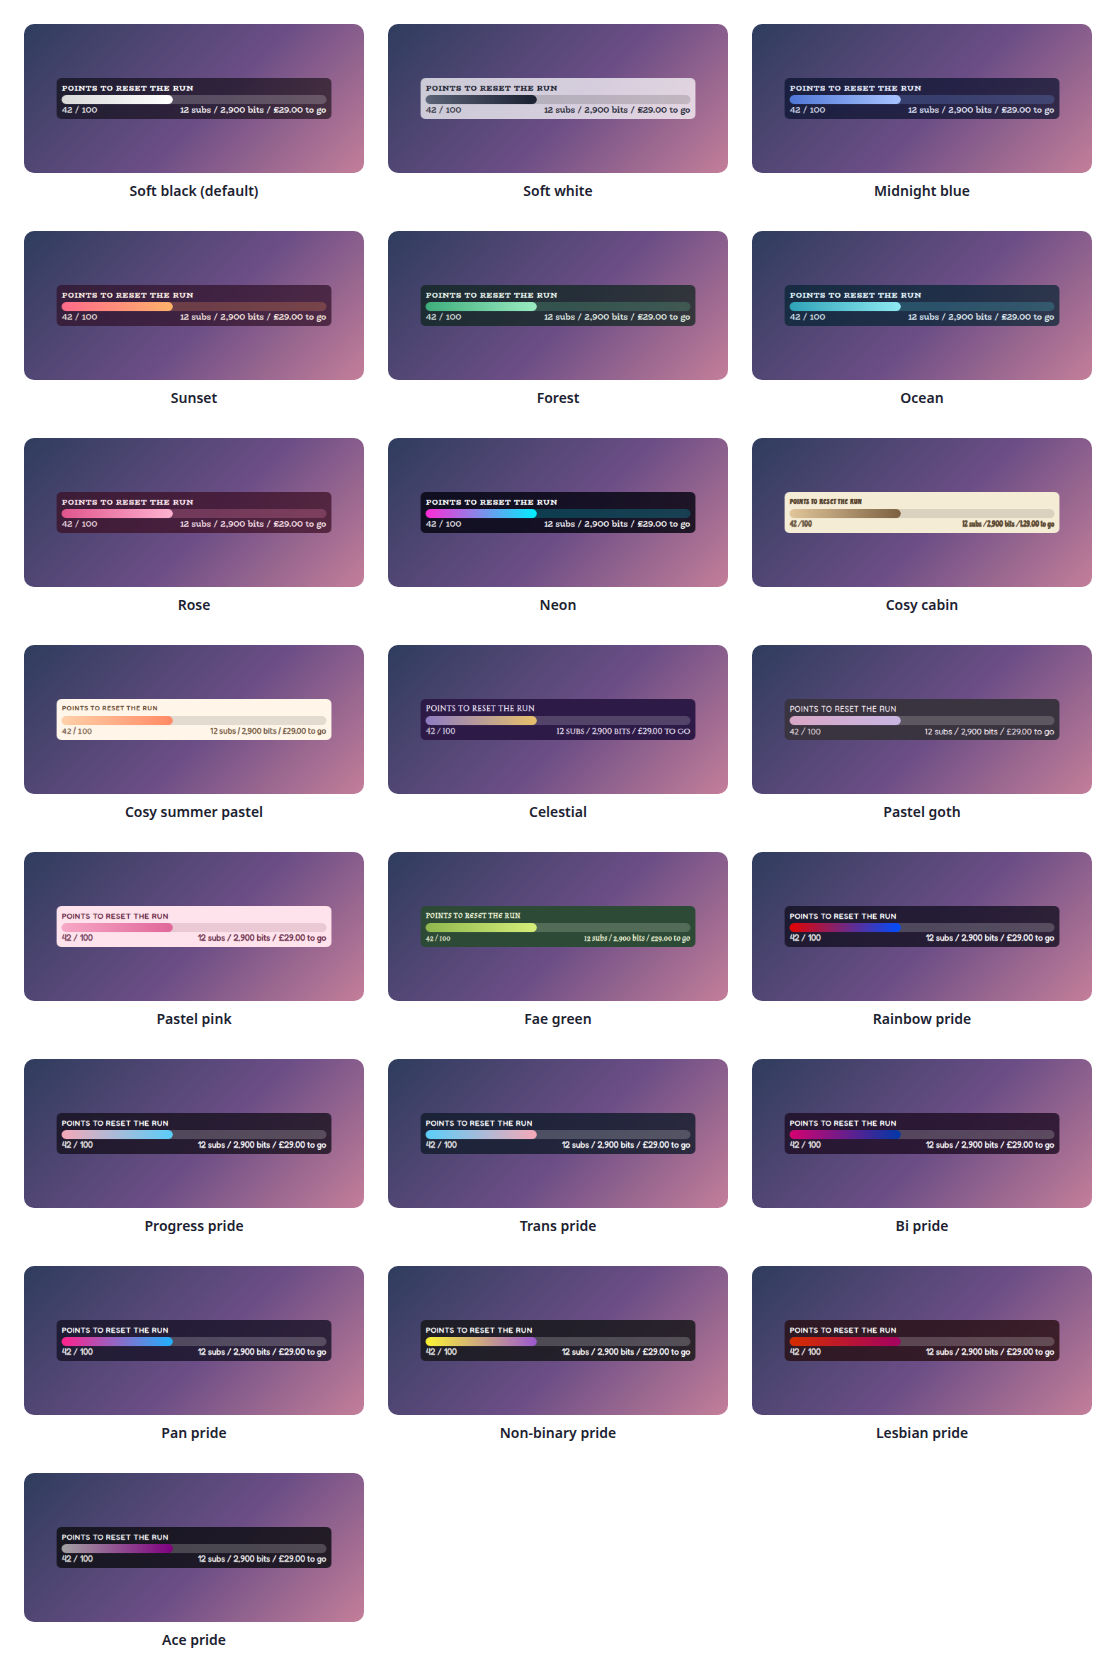
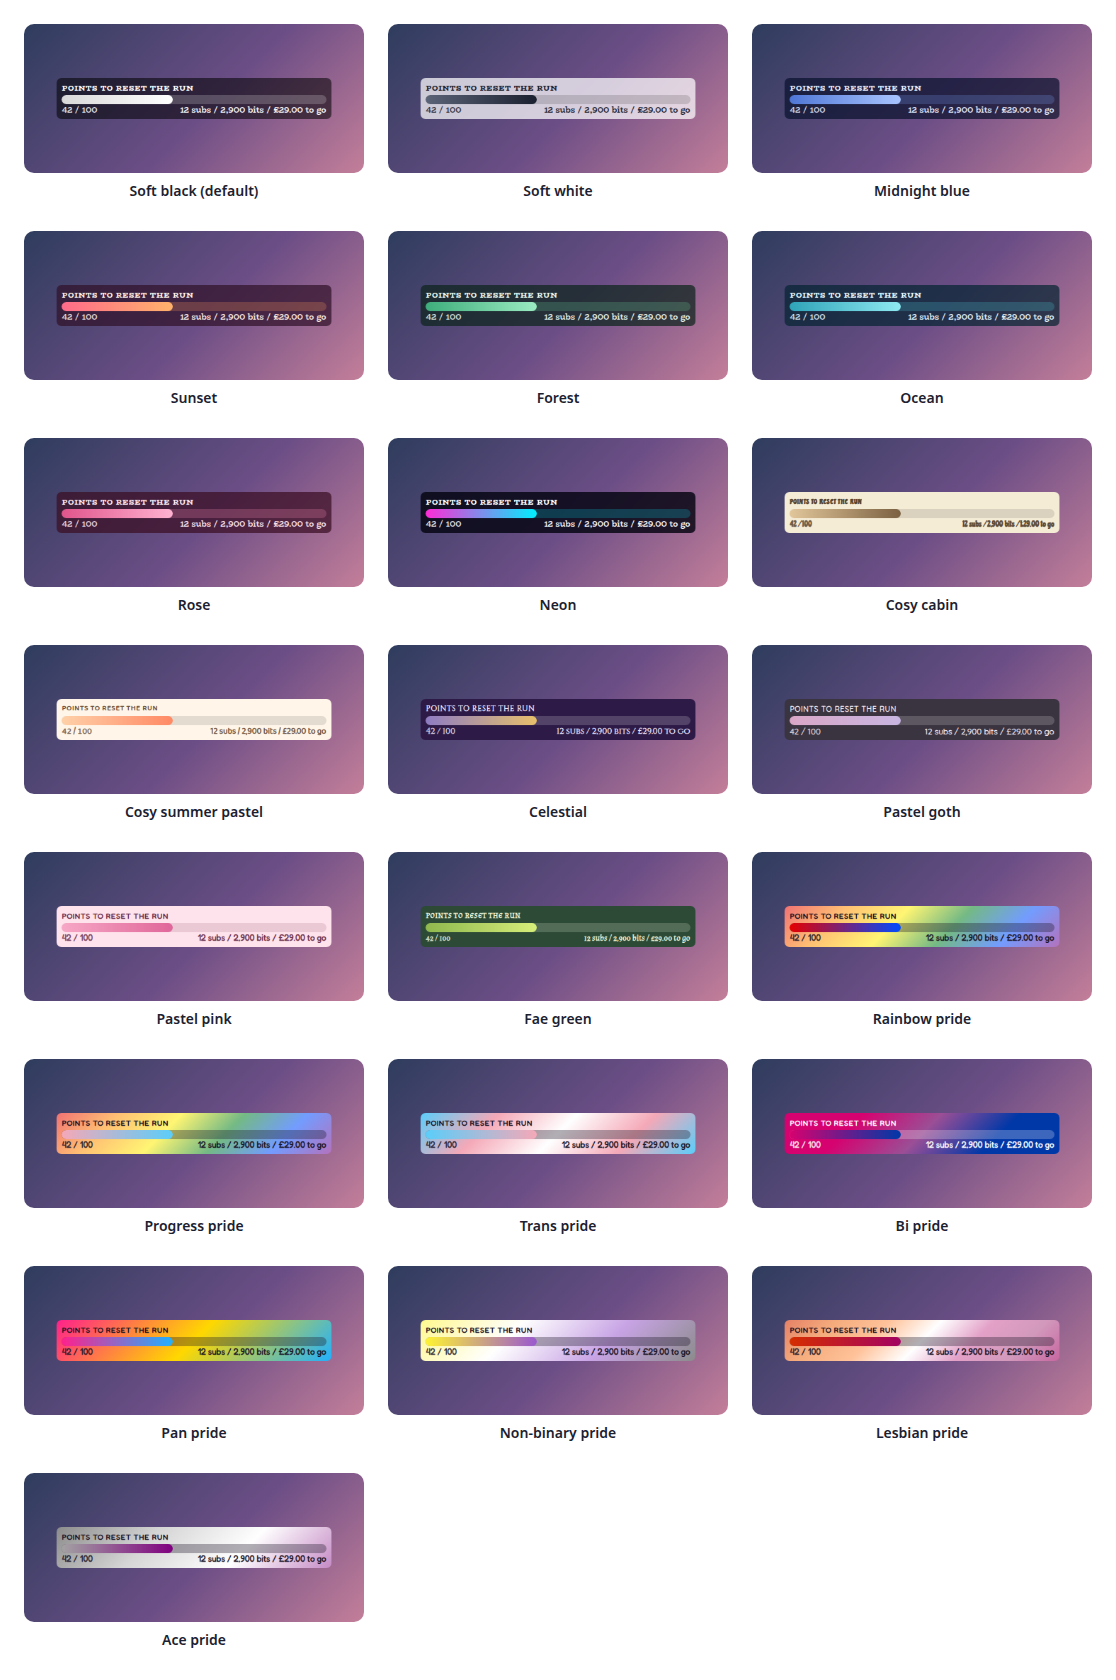
Give the pride presets flag-coloured panels
The pride presets used to be a dark card with only a thin striped bar, so the flag barely showed and the card did not match the palette. Now the card or panel itself wears the flag, as a soft gradient of its stripes, with the text kept readable.

How strong a wash goes over it is worked out, not guessed: the weakest scrim that keeps the text at a contrast of 4.6 or better against every stripe, in white or dark text as the flag needs. Trans, bi and pan need none, and a flag with a black stripe, such as ace and non-binary, gets a lighter wash. A plain colour stays as the fallback, so nothing that only understands a colour is affected, and every other preset, and Custom, is unchanged. The README gallery shows all twenty-two, and the tests check it.

diff --git a/widget/widget.js b/widget/widget.js
@@ -103,44 +103,52 @@
       parts: {"title": "#EEF5DA", "timer": "#EEF5DA", "readout": "#EEF5DA", "note": "#EEF5DA", "border": "#C9E265", "track": "rgba(238, 245, 218, 0.2)", "lock": "#C9E265", "lockHole": "#2C4A36", "float": "#EEF5DA", "floatBg": "#2C4A36", "alert": "#FFFFFF", "alertFill": "#FFFFFF", "alertTrack": "rgba(0, 0, 0, 0.22)"}
     },
     pride: {
-      bg: "rgba(20, 16, 34, 0.8)", text: "#FFFFFF", accent: "#FFEE00", font: "Fredoka",
-      fillFrom: "#E50000", fillTo: "#004CFF", alarm: "#FF5C5C",
-      parts: {"title": "#FFFFFF", "timer": "#FFFFFF", "readout": "#FFFFFF", "note": "#FFFFFF", "border": "#FFEE00", "track": "rgba(255, 255, 255, 0.2)", "lock": "#FFEE00", "lockHole": "rgba(20, 16, 34, 0.92)", "float": "#FFFFFF", "floatBg": "rgba(20, 16, 34, 0.92)", "alert": "#FFFFFF", "alertFill": "#FFFFFF", "alertTrack": "rgba(0, 0, 0, 0.22)"}
+      bg: "rgba(194, 168, 154, 0.9)", text: "#1A1426", accent: "#1A1426", font: "Fredoka",
+      bgimg: "linear-gradient(rgba(255, 255, 255, 0.45), rgba(255, 255, 255, 0.45)), linear-gradient(135deg, #E50000, #FF8D00, #FFEE00, #028121, #004CFF, #770088)",
+      fillFrom: "#E50000", fillTo: "#004CFF", alarm: "#B3123A",
+      parts: {"title": "#1A1426", "timer": "#1A1426", "readout": "#1A1426", "note": "#1A1426", "border": "#1A1426", "track": "rgba(26, 20, 38, 0.34)", "lock": "#1A1426", "lockHole": "rgba(194, 168, 154, 0.96)", "float": "#1A1426", "floatBg": "rgba(194, 168, 154, 0.96)", "alert": "#FFFFFF", "alertFill": "#FFFFFF", "alertTrack": "rgba(0, 0, 0, 0.22)"}
     },
     progress: {
-      bg: "rgba(22, 16, 30, 0.8)", text: "#FFFFFF", accent: "#5BCEFA", font: "Fredoka",
-      fillFrom: "#F5A9B8", fillTo: "#5BCEFA", alarm: "#FF5C5C",
-      parts: {"title": "#FFFFFF", "timer": "#FFFFFF", "readout": "#FFFFFF", "note": "#FFFFFF", "border": "#5BCEFA", "track": "rgba(255, 255, 255, 0.2)", "lock": "#5BCEFA", "lockHole": "rgba(22, 16, 30, 0.92)", "float": "#FFFFFF", "floatBg": "rgba(22, 16, 30, 0.92)", "alert": "#FFFFFF", "alertFill": "#FFFFFF", "alertTrack": "rgba(0, 0, 0, 0.22)"}
+      bg: "rgba(194, 168, 154, 0.9)", text: "#1A1426", accent: "#1A1426", font: "Fredoka",
+      bgimg: "linear-gradient(rgba(255, 255, 255, 0.45), rgba(255, 255, 255, 0.45)), linear-gradient(135deg, #E50000, #FF8D00, #FFEE00, #028121, #004CFF, #770088)",
+      fillFrom: "#F5A9B8", fillTo: "#5BCEFA", alarm: "#B3123A",
+      parts: {"title": "#1A1426", "timer": "#1A1426", "readout": "#1A1426", "note": "#1A1426", "border": "#1A1426", "track": "rgba(26, 20, 38, 0.34)", "lock": "#1A1426", "lockHole": "rgba(194, 168, 154, 0.96)", "float": "#1A1426", "floatBg": "rgba(194, 168, 154, 0.96)", "alert": "#FFFFFF", "alertFill": "#FFFFFF", "alertTrack": "rgba(0, 0, 0, 0.22)"}
     },
     trans: {
-      bg: "rgba(18, 28, 44, 0.82)", text: "#FFFFFF", accent: "#F5A9B8", font: "Fredoka",
-      fillFrom: "#5BCEFA", fillTo: "#F5A9B8", alarm: "#FF5C5C",
-      parts: {"title": "#FFFFFF", "timer": "#FFFFFF", "readout": "#FFFFFF", "note": "#FFFFFF", "border": "#F5A9B8", "track": "rgba(255, 255, 255, 0.2)", "lock": "#F5A9B8", "lockHole": "rgba(18, 28, 44, 0.92)", "float": "#FFFFFF", "floatBg": "rgba(18, 28, 44, 0.92)", "alert": "#FFFFFF", "alertFill": "#FFFFFF", "alertTrack": "rgba(0, 0, 0, 0.22)"}
+      bg: "rgba(185, 201, 225, 0.9)", text: "#1A1426", accent: "#1A1426", font: "Fredoka",
+      bgimg: "linear-gradient(135deg, #5BCEFA, #F5A9B8, #FFFFFF, #F5A9B8, #5BCEFA)",
+      fillFrom: "#5BCEFA", fillTo: "#F5A9B8", alarm: "#B3123A",
+      parts: {"title": "#1A1426", "timer": "#1A1426", "readout": "#1A1426", "note": "#1A1426", "border": "#1A1426", "track": "rgba(26, 20, 38, 0.34)", "lock": "#1A1426", "lockHole": "rgba(185, 201, 225, 0.96)", "float": "#1A1426", "floatBg": "rgba(185, 201, 225, 0.96)", "alert": "#FFFFFF", "alertFill": "#FFFFFF", "alertTrack": "rgba(0, 0, 0, 0.22)"}
     },
     bi: {
-      bg: "rgba(30, 14, 36, 0.82)", text: "#FFFFFF", accent: "#E0559F", font: "Fredoka",
-      fillFrom: "#D60270", fillTo: "#0038A8", alarm: "#FF5C5C",
-      parts: {"title": "#FFFFFF", "timer": "#FFFFFF", "readout": "#FFFFFF", "note": "#FFFFFF", "border": "#E0559F", "track": "rgba(255, 255, 255, 0.2)", "lock": "#E0559F", "lockHole": "rgba(30, 14, 36, 0.92)", "float": "#FFFFFF", "floatBg": "rgba(30, 14, 36, 0.92)", "alert": "#FFFFFF", "alertFill": "#FFFFFF", "alertTrack": "rgba(0, 0, 0, 0.22)"}
+      bg: "rgba(117, 39, 142, 0.9)", text: "#FFFFFF", accent: "#FFFFFF", font: "Fredoka",
+      bgimg: "linear-gradient(135deg, #D60270, #D60270, #9B4F96, #0038A8, #0038A8)",
+      fillFrom: "#D60270", fillTo: "#0038A8", alarm: "#FF6B6B",
+      parts: {"title": "#FFFFFF", "timer": "#FFFFFF", "readout": "#FFFFFF", "note": "#FFFFFF", "border": "#FFFFFF", "track": "rgba(255, 255, 255, 0.24)", "lock": "#FFFFFF", "lockHole": "rgba(117, 39, 142, 0.96)", "float": "#FFFFFF", "floatBg": "rgba(117, 39, 142, 0.96)", "alert": "#FFFFFF", "alertFill": "#FFFFFF", "alertTrack": "rgba(0, 0, 0, 0.22)"}
     },
     pan: {
-      bg: "rgba(24, 20, 40, 0.82)", text: "#FFFFFF", accent: "#FFD800", font: "Fredoka",
-      fillFrom: "#FF218C", fillTo: "#21B1FF", alarm: "#FF5C5C",
-      parts: {"title": "#FFFFFF", "timer": "#FFFFFF", "readout": "#FFFFFF", "note": "#FFFFFF", "border": "#FFD800", "track": "rgba(255, 255, 255, 0.2)", "lock": "#FFD800", "lockHole": "rgba(24, 20, 40, 0.92)", "float": "#FFFFFF", "floatBg": "rgba(24, 20, 40, 0.92)", "alert": "#FFFFFF", "alertFill": "#FFFFFF", "alertTrack": "rgba(0, 0, 0, 0.22)"}
+      bg: "rgba(181, 142, 132, 0.9)", text: "#1A1426", accent: "#1A1426", font: "Fredoka",
+      bgimg: "linear-gradient(135deg, #FF218C, #FFD800, #21B1FF)",
+      fillFrom: "#FF218C", fillTo: "#21B1FF", alarm: "#B3123A",
+      parts: {"title": "#1A1426", "timer": "#1A1426", "readout": "#1A1426", "note": "#1A1426", "border": "#1A1426", "track": "rgba(26, 20, 38, 0.34)", "lock": "#1A1426", "lockHole": "rgba(181, 142, 132, 0.96)", "float": "#1A1426", "floatBg": "rgba(181, 142, 132, 0.96)", "alert": "#FFFFFF", "alertFill": "#FFFFFF", "alertTrack": "rgba(0, 0, 0, 0.22)"}
     },
     enby: {
-      bg: "rgba(24, 24, 28, 0.86)", text: "#FFFFFF", accent: "#FFF433", font: "Fredoka",
-      fillFrom: "#FFF433", fillTo: "#9B59D0", alarm: "#FF5C5C",
-      parts: {"title": "#FFFFFF", "timer": "#FFFFFF", "readout": "#FFFFFF", "note": "#FFFFFF", "border": "#FFF433", "track": "rgba(255, 255, 255, 0.2)", "lock": "#FFF433", "lockHole": "rgba(24, 24, 28, 0.94)", "float": "#FFFFFF", "floatBg": "rgba(24, 24, 28, 0.94)", "alert": "#FFFFFF", "alertFill": "#FFFFFF", "alertTrack": "rgba(0, 0, 0, 0.22)"}
+      bg: "rgba(212, 202, 192, 0.9)", text: "#1A1426", accent: "#2D2D2D", font: "Fredoka",
+      bgimg: "linear-gradient(rgba(255, 255, 255, 0.45), rgba(255, 255, 255, 0.45)), linear-gradient(135deg, #FFF433, #FFFFFF, #9B59D0, #2D2D2D)",
+      fillFrom: "#FFF433", fillTo: "#9B59D0", alarm: "#B3123A",
+      parts: {"title": "#1A1426", "timer": "#1A1426", "readout": "#1A1426", "note": "#1A1426", "border": "#2D2D2D", "track": "rgba(26, 20, 38, 0.34)", "lock": "#2D2D2D", "lockHole": "rgba(212, 202, 192, 0.96)", "float": "#1A1426", "floatBg": "rgba(212, 202, 192, 0.96)", "alert": "#FFFFFF", "alertFill": "#FFFFFF", "alertTrack": "rgba(0, 0, 0, 0.22)"}
     },
     lesbian: {
-      bg: "rgba(40, 16, 20, 0.82)", text: "#FFFFFF", accent: "#FF9A56", font: "Fredoka",
-      fillFrom: "#D52D00", fillTo: "#A30262", alarm: "#FF5C5C",
-      parts: {"title": "#FFFFFF", "timer": "#FFFFFF", "readout": "#FFFFFF", "note": "#FFFFFF", "border": "#FF9A56", "track": "rgba(255, 255, 255, 0.2)", "lock": "#FF9A56", "lockHole": "rgba(40, 16, 20, 0.92)", "float": "#FFFFFF", "floatBg": "rgba(40, 16, 20, 0.92)", "alert": "#FFFFFF", "alertFill": "#FFFFFF", "alertTrack": "rgba(0, 0, 0, 0.22)"}
+      bg: "rgba(232, 167, 169, 0.9)", text: "#1A1426", accent: "#1A1426", font: "Fredoka",
+      bgimg: "linear-gradient(rgba(255, 255, 255, 0.40), rgba(255, 255, 255, 0.40)), linear-gradient(135deg, #D52D00, #EF7627, #FF9A56, #FFFFFF, #D162A4, #B55690, #A30262)",
+      fillFrom: "#D52D00", fillTo: "#A30262", alarm: "#B3123A",
+      parts: {"title": "#1A1426", "timer": "#1A1426", "readout": "#1A1426", "note": "#1A1426", "border": "#1A1426", "track": "rgba(26, 20, 38, 0.34)", "lock": "#1A1426", "lockHole": "rgba(232, 167, 169, 0.96)", "float": "#1A1426", "floatBg": "rgba(232, 167, 169, 0.96)", "alert": "#FFFFFF", "alertFill": "#FFFFFF", "alertTrack": "rgba(0, 0, 0, 0.22)"}
     },
     ace: {
-      bg: "rgba(16, 16, 22, 0.86)", text: "#F1F1F1", accent: "#B075C9", font: "Fredoka",
-      fillFrom: "#A3A3A3", fillTo: "#800080", alarm: "#FF5C5C",
-      parts: {"title": "#F1F1F1", "timer": "#F1F1F1", "readout": "#F1F1F1", "note": "#F1F1F1", "border": "#B075C9", "track": "rgba(255, 255, 255, 0.2)", "lock": "#B075C9", "lockHole": "rgba(16, 16, 22, 0.94)", "float": "#F1F1F1", "floatBg": "rgba(16, 16, 22, 0.94)", "alert": "#FFFFFF", "alertFill": "#FFFFFF", "alertTrack": "rgba(0, 0, 0, 0.22)"}
+      bg: "rgba(202, 187, 202, 0.9)", text: "#1A1426", accent: "#000000", font: "Fredoka",
+      bgimg: "linear-gradient(rgba(255, 255, 255, 0.55), rgba(255, 255, 255, 0.55)), linear-gradient(135deg, #000000, #A3A3A3, #FFFFFF, #800080)",
+      fillFrom: "#A3A3A3", fillTo: "#800080", alarm: "#B3123A",
+      parts: {"title": "#1A1426", "timer": "#1A1426", "readout": "#1A1426", "note": "#1A1426", "border": "#000000", "track": "rgba(26, 20, 38, 0.34)", "lock": "#000000", "lockHole": "rgba(202, 187, 202, 0.96)", "float": "#1A1426", "floatBg": "rgba(202, 187, 202, 0.96)", "alert": "#FFFFFF", "alertFill": "#FFFFFF", "alertTrack": "rgba(0, 0, 0, 0.22)"}
     }
   };
   var BASE = PRESETS.glass;
@@ -420,7 +428,7 @@
     Object.keys(over).forEach(function (k) { parts[k] = over[k]; });
     return {
       bg: p.bg, text: p.text, accent: p.accent,
-      fillFrom: p.fillFrom, fillTo: p.fillTo, alarm: p.alarm, font: p.font, parts: parts
+      fillFrom: p.fillFrom, fillTo: p.fillTo, alarm: p.alarm, font: p.font, parts: parts, bgimg: p.bgimg || ""
     };
   }
 
@@ -429,6 +437,7 @@
     var root = el.app;
     if (!root) return;
     root.style.setProperty("--bg", t.bg);
+    root.style.setProperty("--bg-img", t.bgimg || "none");
     root.style.setProperty("--text", t.text);
     root.style.setProperty("--accent", t.accent);
     root.style.setProperty("--fill-from", t.fillFrom);

diff --git a/test/test-widget.js b/test/test-widget.js
@@ -1875,7 +1875,7 @@ function ok(cond, msg) { if (cond) { pass++; console.log("  PASS " + msg); } els
 
   // ---- style presets: the same twenty-two, with the same colours, in every overlay
   console.log("\n[style presets]");
-  const EXPECT = {"glass": {"text": "#FFFFFF", "accent": "#FFFFFF", "panel": "rgba(0, 0, 0, 0.55)", "font": "BioRhyme"}, "frost": {"text": "#1B2130", "accent": "#1B2130", "panel": "rgba(255, 255, 255, 0.72)", "font": "BioRhyme"}, "midnight": {"text": "#E8EEFF", "accent": "#7FA8FF", "panel": "rgba(10, 18, 46, 0.72)", "font": "BioRhyme"}, "sunset": {"text": "#FFF1E6", "accent": "#FF9A5A", "panel": "rgba(48, 18, 42, 0.72)", "font": "BioRhyme"}, "forest": {"text": "#EAF7EE", "accent": "#6FD6A0", "panel": "rgba(12, 36, 28, 0.72)", "font": "BioRhyme"}, "ocean": {"text": "#E6F8FF", "accent": "#4CD3E0", "panel": "rgba(6, 36, 50, 0.72)", "font": "BioRhyme"}, "rose": {"text": "#FFE9F1", "accent": "#FF8FB8", "panel": "rgba(58, 14, 34, 0.72)", "font": "BioRhyme"}, "neon": {"text": "#FFFFFF", "accent": "#00F0FF", "panel": "rgba(4, 4, 16, 0.82)", "font": "BioRhyme"}, "cosycabin": {"text": "#57442E", "accent": "#7C6142", "panel": "#F5ECD6", "font": "Chicle"}, "pastel": {"text": "#6B4F3A", "accent": "#FF8A65", "panel": "#FFF6E9", "font": "Baloo 2"}, "celestial": {"text": "#F3ECFF", "accent": "#E8C06B", "panel": "#2E1A47", "font": "Cinzel"}, "pastelgoth": {"text": "#F2E9F0", "accent": "#C8B6E2", "panel": "#3A3340", "font": "Quicksand"}, "pastelpink": {"text": "#6A2E4B", "accent": "#D95C8A", "panel": "#FFE3EC", "font": "Fredoka"}, "faegreen": {"text": "#EEF5DA", "accent": "#C9E265", "panel": "#2C4A36", "font": "Almendra"}, "pride": {"text": "#FFFFFF", "accent": "#FFEE00", "panel": "rgba(20, 16, 34, 0.8)", "font": "Fredoka"}, "progress": {"text": "#FFFFFF", "accent": "#5BCEFA", "panel": "rgba(22, 16, 30, 0.8)", "font": "Fredoka"}, "trans": {"text": "#FFFFFF", "accent": "#F5A9B8", "panel": "rgba(18, 28, 44, 0.82)", "font": "Fredoka"}, "bi": {"text": "#FFFFFF", "accent": "#E0559F", "panel": "rgba(30, 14, 36, 0.82)", "font": "Fredoka"}, "pan": {"text": "#FFFFFF", "accent": "#FFD800", "panel": "rgba(24, 20, 40, 0.82)", "font": "Fredoka"}, "enby": {"text": "#FFFFFF", "accent": "#FFF433", "panel": "rgba(24, 24, 28, 0.86)", "font": "Fredoka"}, "lesbian": {"text": "#FFFFFF", "accent": "#FF9A56", "panel": "rgba(40, 16, 20, 0.82)", "font": "Fredoka"}, "ace": {"text": "#F1F1F1", "accent": "#B075C9", "panel": "rgba(16, 16, 22, 0.86)", "font": "Fredoka"}};
+  const EXPECT = {"glass": {"text": "#FFFFFF", "accent": "#FFFFFF", "panel": "rgba(0, 0, 0, 0.55)", "font": "BioRhyme"}, "frost": {"text": "#1B2130", "accent": "#1B2130", "panel": "rgba(255, 255, 255, 0.72)", "font": "BioRhyme"}, "midnight": {"text": "#E8EEFF", "accent": "#7FA8FF", "panel": "rgba(10, 18, 46, 0.72)", "font": "BioRhyme"}, "sunset": {"text": "#FFF1E6", "accent": "#FF9A5A", "panel": "rgba(48, 18, 42, 0.72)", "font": "BioRhyme"}, "forest": {"text": "#EAF7EE", "accent": "#6FD6A0", "panel": "rgba(12, 36, 28, 0.72)", "font": "BioRhyme"}, "ocean": {"text": "#E6F8FF", "accent": "#4CD3E0", "panel": "rgba(6, 36, 50, 0.72)", "font": "BioRhyme"}, "rose": {"text": "#FFE9F1", "accent": "#FF8FB8", "panel": "rgba(58, 14, 34, 0.72)", "font": "BioRhyme"}, "neon": {"text": "#FFFFFF", "accent": "#00F0FF", "panel": "rgba(4, 4, 16, 0.82)", "font": "BioRhyme"}, "cosycabin": {"text": "#57442E", "accent": "#7C6142", "panel": "#F5ECD6", "font": "Chicle"}, "pastel": {"text": "#6B4F3A", "accent": "#FF8A65", "panel": "#FFF6E9", "font": "Baloo 2"}, "celestial": {"text": "#F3ECFF", "accent": "#E8C06B", "panel": "#2E1A47", "font": "Cinzel"}, "pastelgoth": {"text": "#F2E9F0", "accent": "#C8B6E2", "panel": "#3A3340", "font": "Quicksand"}, "pastelpink": {"text": "#6A2E4B", "accent": "#D95C8A", "panel": "#FFE3EC", "font": "Fredoka"}, "faegreen": {"text": "#EEF5DA", "accent": "#C9E265", "panel": "#2C4A36", "font": "Almendra"}, "pride": {"text": "#1A1426", "accent": "#1A1426", "panel": "rgba(194, 168, 154, 0.9)", "font": "Fredoka"}, "progress": {"text": "#1A1426", "accent": "#1A1426", "panel": "rgba(194, 168, 154, 0.9)", "font": "Fredoka"}, "trans": {"text": "#1A1426", "accent": "#1A1426", "panel": "rgba(185, 201, 225, 0.9)", "font": "Fredoka"}, "bi": {"text": "#FFFFFF", "accent": "#FFFFFF", "panel": "rgba(117, 39, 142, 0.9)", "font": "Fredoka"}, "pan": {"text": "#1A1426", "accent": "#1A1426", "panel": "rgba(181, 142, 132, 0.9)", "font": "Fredoka"}, "enby": {"text": "#1A1426", "accent": "#2D2D2D", "panel": "rgba(212, 202, 192, 0.9)", "font": "Fredoka"}, "lesbian": {"text": "#1A1426", "accent": "#1A1426", "panel": "rgba(232, 167, 169, 0.9)", "font": "Fredoka"}, "ace": {"text": "#1A1426", "accent": "#000000", "panel": "rgba(202, 187, 202, 0.9)", "font": "Fredoka"}};
   const LABELS = {"glass": "Soft black (default)", "frost": "Soft white", "midnight": "Midnight blue", "sunset": "Sunset", "forest": "Forest", "ocean": "Ocean", "rose": "Rose", "neon": "Neon", "cosycabin": "Cosy cabin", "pastel": "Cosy summer pastel", "celestial": "Celestial", "pastelgoth": "Pastel goth", "pastelpink": "Pastel pink", "faegreen": "Fae green", "pride": "Rainbow pride", "progress": "Progress pride", "trans": "Trans pride", "bi": "Bi pride", "pan": "Pan pride", "enby": "Non-binary pride", "lesbian": "Lesbian pride", "ace": "Ace pride", "custom": "Custom (use the colours below)"};
   ok(JSON.stringify(Object.keys(fields.themePreset.options)) === JSON.stringify(Object.keys(LABELS)) && Object.keys(LABELS).length === 23, "the dropdown offers the twenty-two shared presets and Custom, in the shared order");
   ok(Object.keys(LABELS).every(k => fields.themePreset.options[k] === LABELS[k]), "with the shared labels");
@@ -1886,6 +1886,13 @@ function ok(cond, msg) { if (cond) { pass++; console.log("  PASS " + msg); } els
     ok(S2["--text"] === EXPECT[key].text && S2["--accent"] === EXPECT[key].accent && S2["--bg"] === EXPECT[key].panel && S2["--font"].indexOf('"' + EXPECT[key].font + '"') !== -1,
       key + ": panel, text, accent and font match the shared table (" + S2["--text"] + ", " + S2["--accent"] + ")");
   }
+  console.log("\n[pride flags behind the card]");
+  await load({ themePreset: "trans" }); 
+  ok(elements["rage-app"].style["--bg-img"] === "linear-gradient(135deg, #5BCEFA, #F5A9B8, #FFFFFF, #F5A9B8, #5BCEFA)", "the trans preset puts its flag behind the card (" + elements["rage-app"].style["--bg-img"] + ")");
+  await load({ themePreset: "ace" }); 
+  ok(/^linear-gradient\(rgba\(255, 255, 255, 0\.\d+\), rgba\(255, 255, 255, 0\.\d+\)\), linear-gradient\(135deg, #000000, #A3A3A3, #FFFFFF, #800080\)$/.test(elements["rage-app"].style["--bg-img"]), "a flag with a black stripe gets a light wash over it, so the dark text stays readable");
+  await load({ themePreset: "glass" }); 
+  ok(elements["rage-app"].style["--bg-img"] === "none", "and every other preset leaves the card plain");
   console.log("\n=== " + pass + " passed, " + fail + " failed ===");
   process.exit(fail ? 1 : 0);
 })();

diff --git a/widget/widget.css b/widget/widget.css
@@ -88,6 +88,7 @@
   width: 100%;
   padding: calc(var(--pad-v) * 1cqmin) calc(var(--pad-h) * 1cqmin);
   background: var(--bg);
+  background-image: var(--bg-img, none);
   color: var(--text);
   border: var(--border-w) solid var(--c-border);
   border-radius: calc(var(--radius-pct) * 1cqmin);

diff --git a/README.md b/README.md
@@ -57,16 +57,16 @@ One setting picks the look. The same twenty-two presets, with the same colours, 
 | Pastel goth | Charcoal and lilac, in Quicksand. |
 | Pastel pink | Soft blush pink with rose, in Fredoka. |
 | Fae green | Mossy green with a firefly lime accent, in Almendra. |
-| Rainbow pride | Dark plum with the six rainbow stripes, in Fredoka. |
-| Progress pride | The six rainbow stripes with the chevron's pink and light blue. |
-| Trans pride | Dark blue with light blue, pink and white. |
-| Bi pride | Dark violet with magenta, purple and blue. |
-| Pan pride | Dark indigo with pink, yellow and light blue. |
-| Non-binary pride | Charcoal with yellow, white, purple and black. |
-| Lesbian pride | Dark wine with the orange to pink stripes. |
-| Ace pride | Near black with grey, white and purple. |
+| Rainbow pride | A soft wash of the six rainbow stripes, in Fredoka. |
+| Progress pride | The same stripes, with the chevron's pink and light blue in the wheel and poll colours. |
+| Trans pride | Light blue, pink and white. |
+| Bi pride | Magenta, purple and blue, with white text. |
+| Pan pride | Pink, yellow and light blue. |
+| Non-binary pride | Yellow, white, purple and black, softened so the text stays readable. |
+| Lesbian pride | The orange to pink stripes. |
+| Ace pride | Black, grey, white and purple, softened so the text stays readable. |
 
-The last eight are pride presets, built from the stripes of the rainbow, progress, trans, bi, pan, non-binary, lesbian and ace flags. A bar is striped like the flag where an overlay has one, and the slices of a wheel and the options of a poll take their colours from the stripes in order. The colours follow each flag's published design, and the progress flag shows its six rainbow stripes, because its chevron is a separate shape.
+The last eight are pride presets, built from the stripes of the rainbow, progress, trans, bi, pan, non-binary, lesbian and ace flags. The card or panel wears the flag as its background, with only as much of a wash over it as the text needs to stay readable, so flags with a black stripe come out softer. A bar is striped like the flag where an overlay has one, and the slices of a wheel and the options of a poll take their colours from the stripes in order. The colours follow each flag's published design, and the progress flag shows its six rainbow stripes, because its chevron is a separate shape.
 
 Choose **Custom** to use the colour pickers and font instead. They are ignored while a preset is chosen.
 
